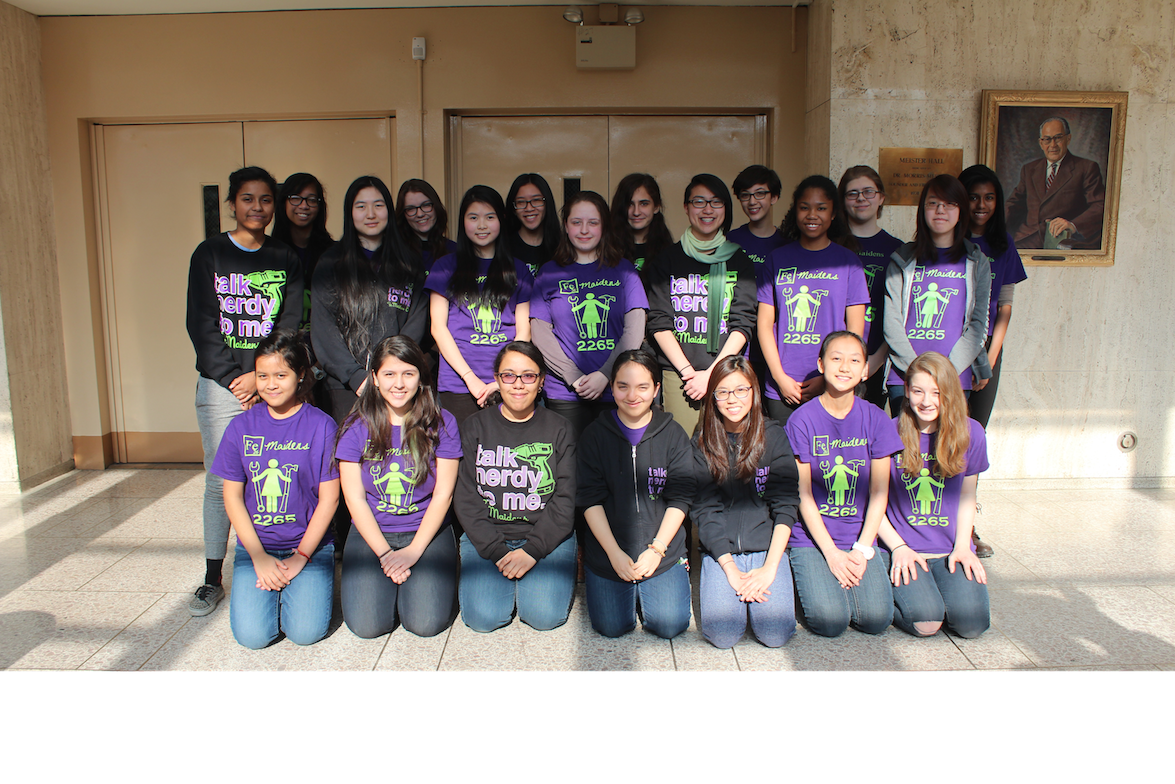
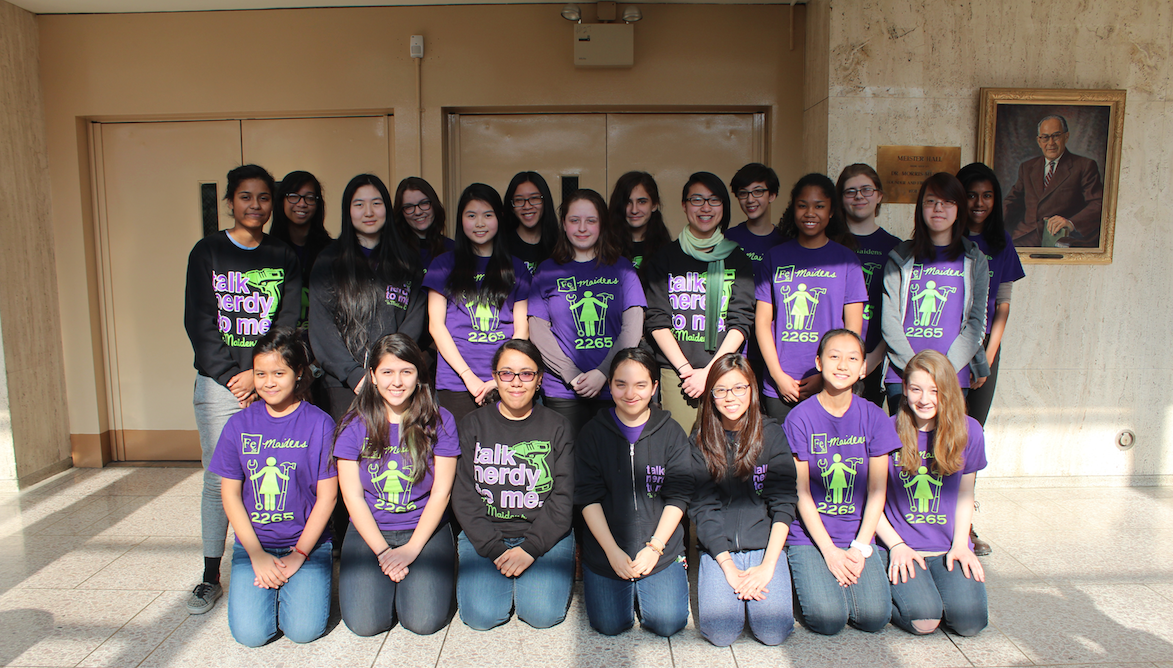
Edit background1 image and make it mission image. Fix sponsor and mentor page link.

diff --git a/mission.html b/mission.html
@@ -97,7 +97,7 @@
     <div class="container">
       <h2 class="center-align">Mission</h2>
       <div class="col s12 m6 l3 center-align">
-        <img src="images/background1.jpg" alt="Team Photo" class="responsive-img">
+        <img src="images/background1.png" alt="Team Photo" class="responsive-img">
       </div>
       <div class="col s9 m6 l3">
         <p>As an all-girls FIRST robotics team, our primary mission has always been to encourage the involvement of women in the fields of science and engineering as well as to foster a spirit of appreciation and inquiry among young people regarding science and technology. We work within our team and community to spread the ideals of FIRST robotics while having fun learning the skills that will help us play an important role in the future through emphasis on trust and teamwork with the hopes of creating a comfortable, enthusiastic, and motivating team environment. Along with spreading FIRST ideals, we hope to dissolve the stereotypes of women in technology and engineering.</p>

diff --git a/mentors.html b/mentors.html
@@ -248,7 +248,7 @@
         </div>
         
         <!--Become a Mentor-->
-        <h5>Interested in becoming a mentor for the Fe Maidens? <a href="http://www.bxscience.edu/apps/pages/index.jsp?uREC_ID=213440&type=d&termREC_ID=&pREC_ID=490152">Yes</a>.</h5>
+        <h5>Interested in becoming a mentor for the Fe Maidens? Contact us at femaidens@gmail.com.</h5>
         <br>
     </div>
 

diff --git a/sponsors.html b/sponsors.html
@@ -120,7 +120,7 @@
       </div>
     
       <!--Become a Sponsor-->
-      <h5>Interested in becoming a sponsor for the Fe Maidens? <a href="http://www.bxscience.edu/apps/pages/index.jsp?uREC_ID=213440&type=d&termREC_ID=&pREC_ID=490153">Yes</a>.</h5>
+      <h5>Interested in becoming a sponsor for the Fe Maidens? Contact us at femaidens@gmail.com.</h5>
       <br>
     </div>
 

diff --git a/css/style.css b/css/style.css
@@ -29,6 +29,7 @@ nav ul a {
 nav .brand-logo img {
   height: 75%;
   width: 75%;
+  padding-top: 2px;
 }
 
 p {
